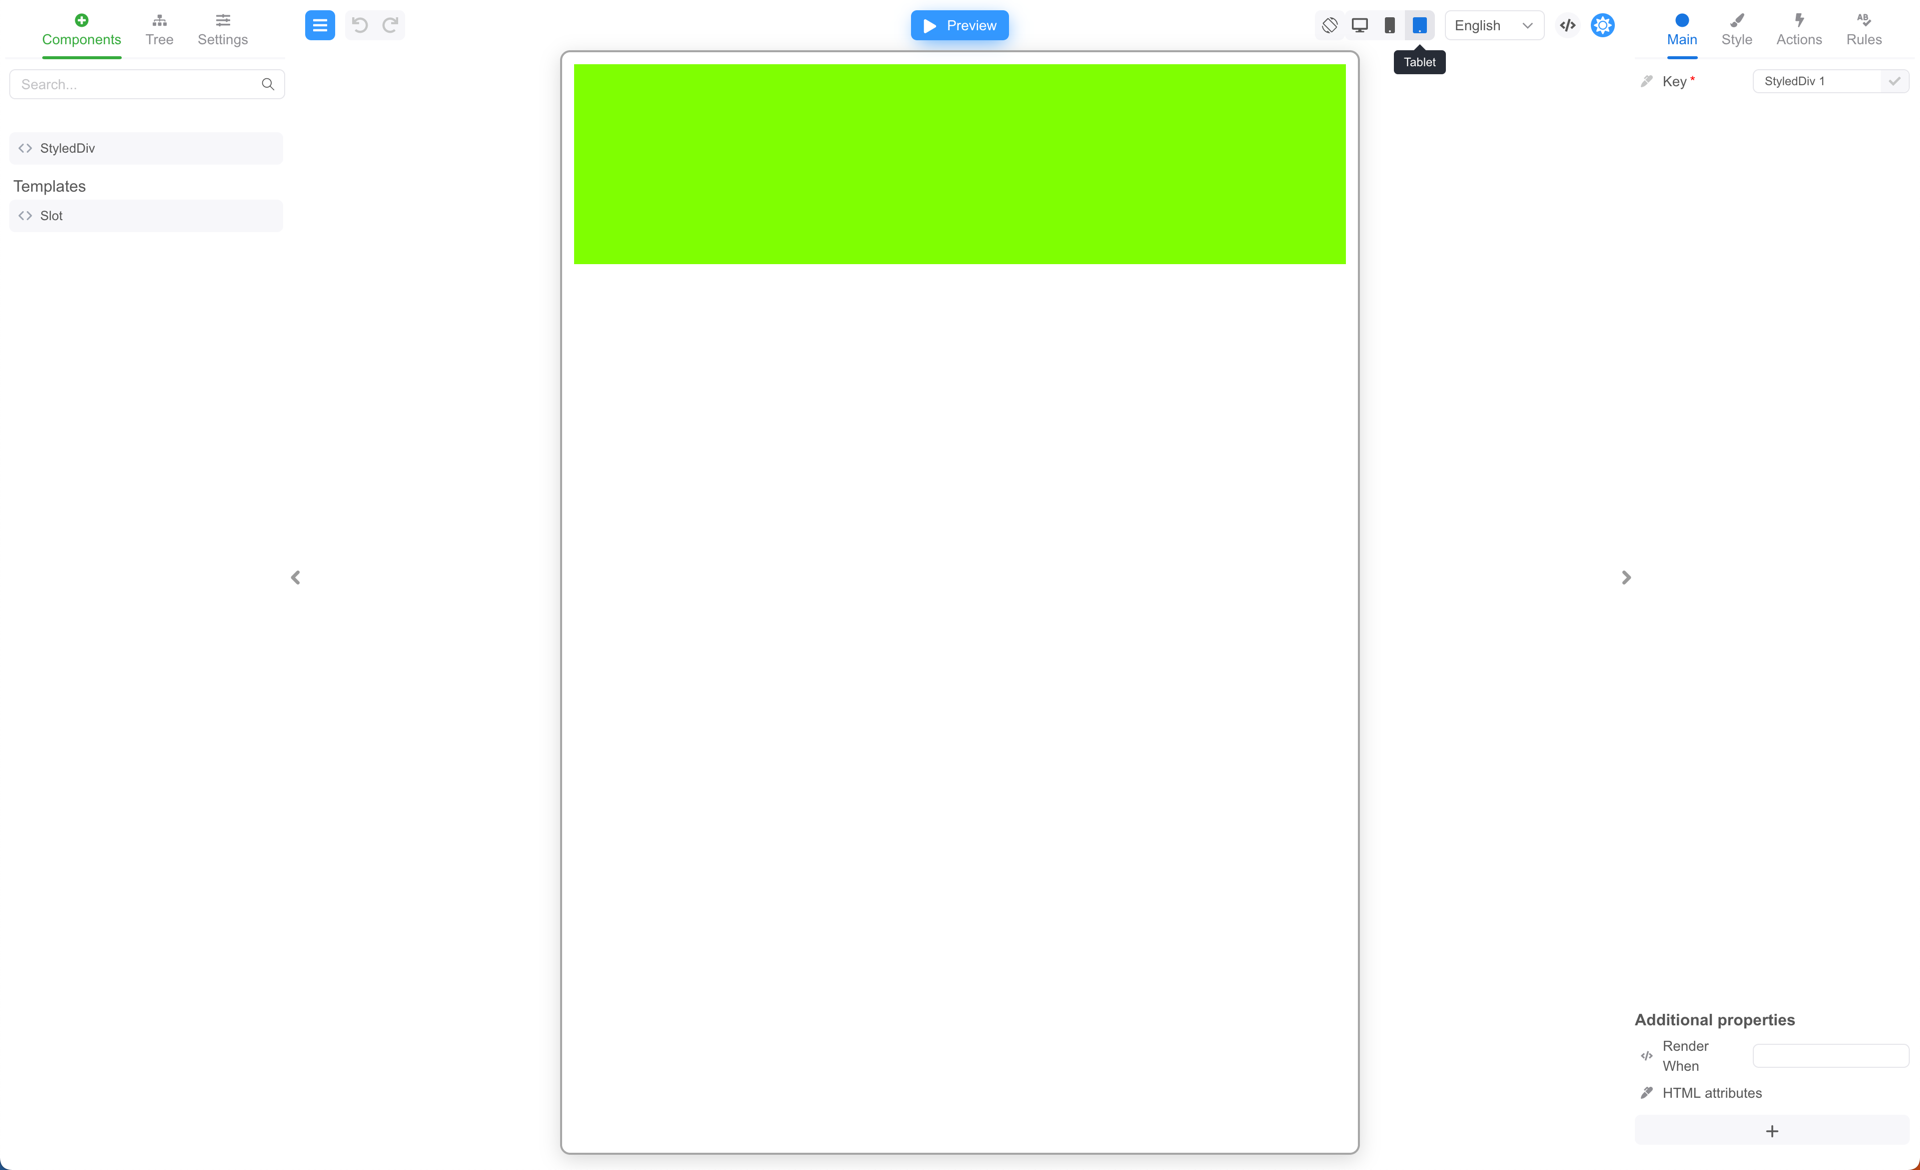
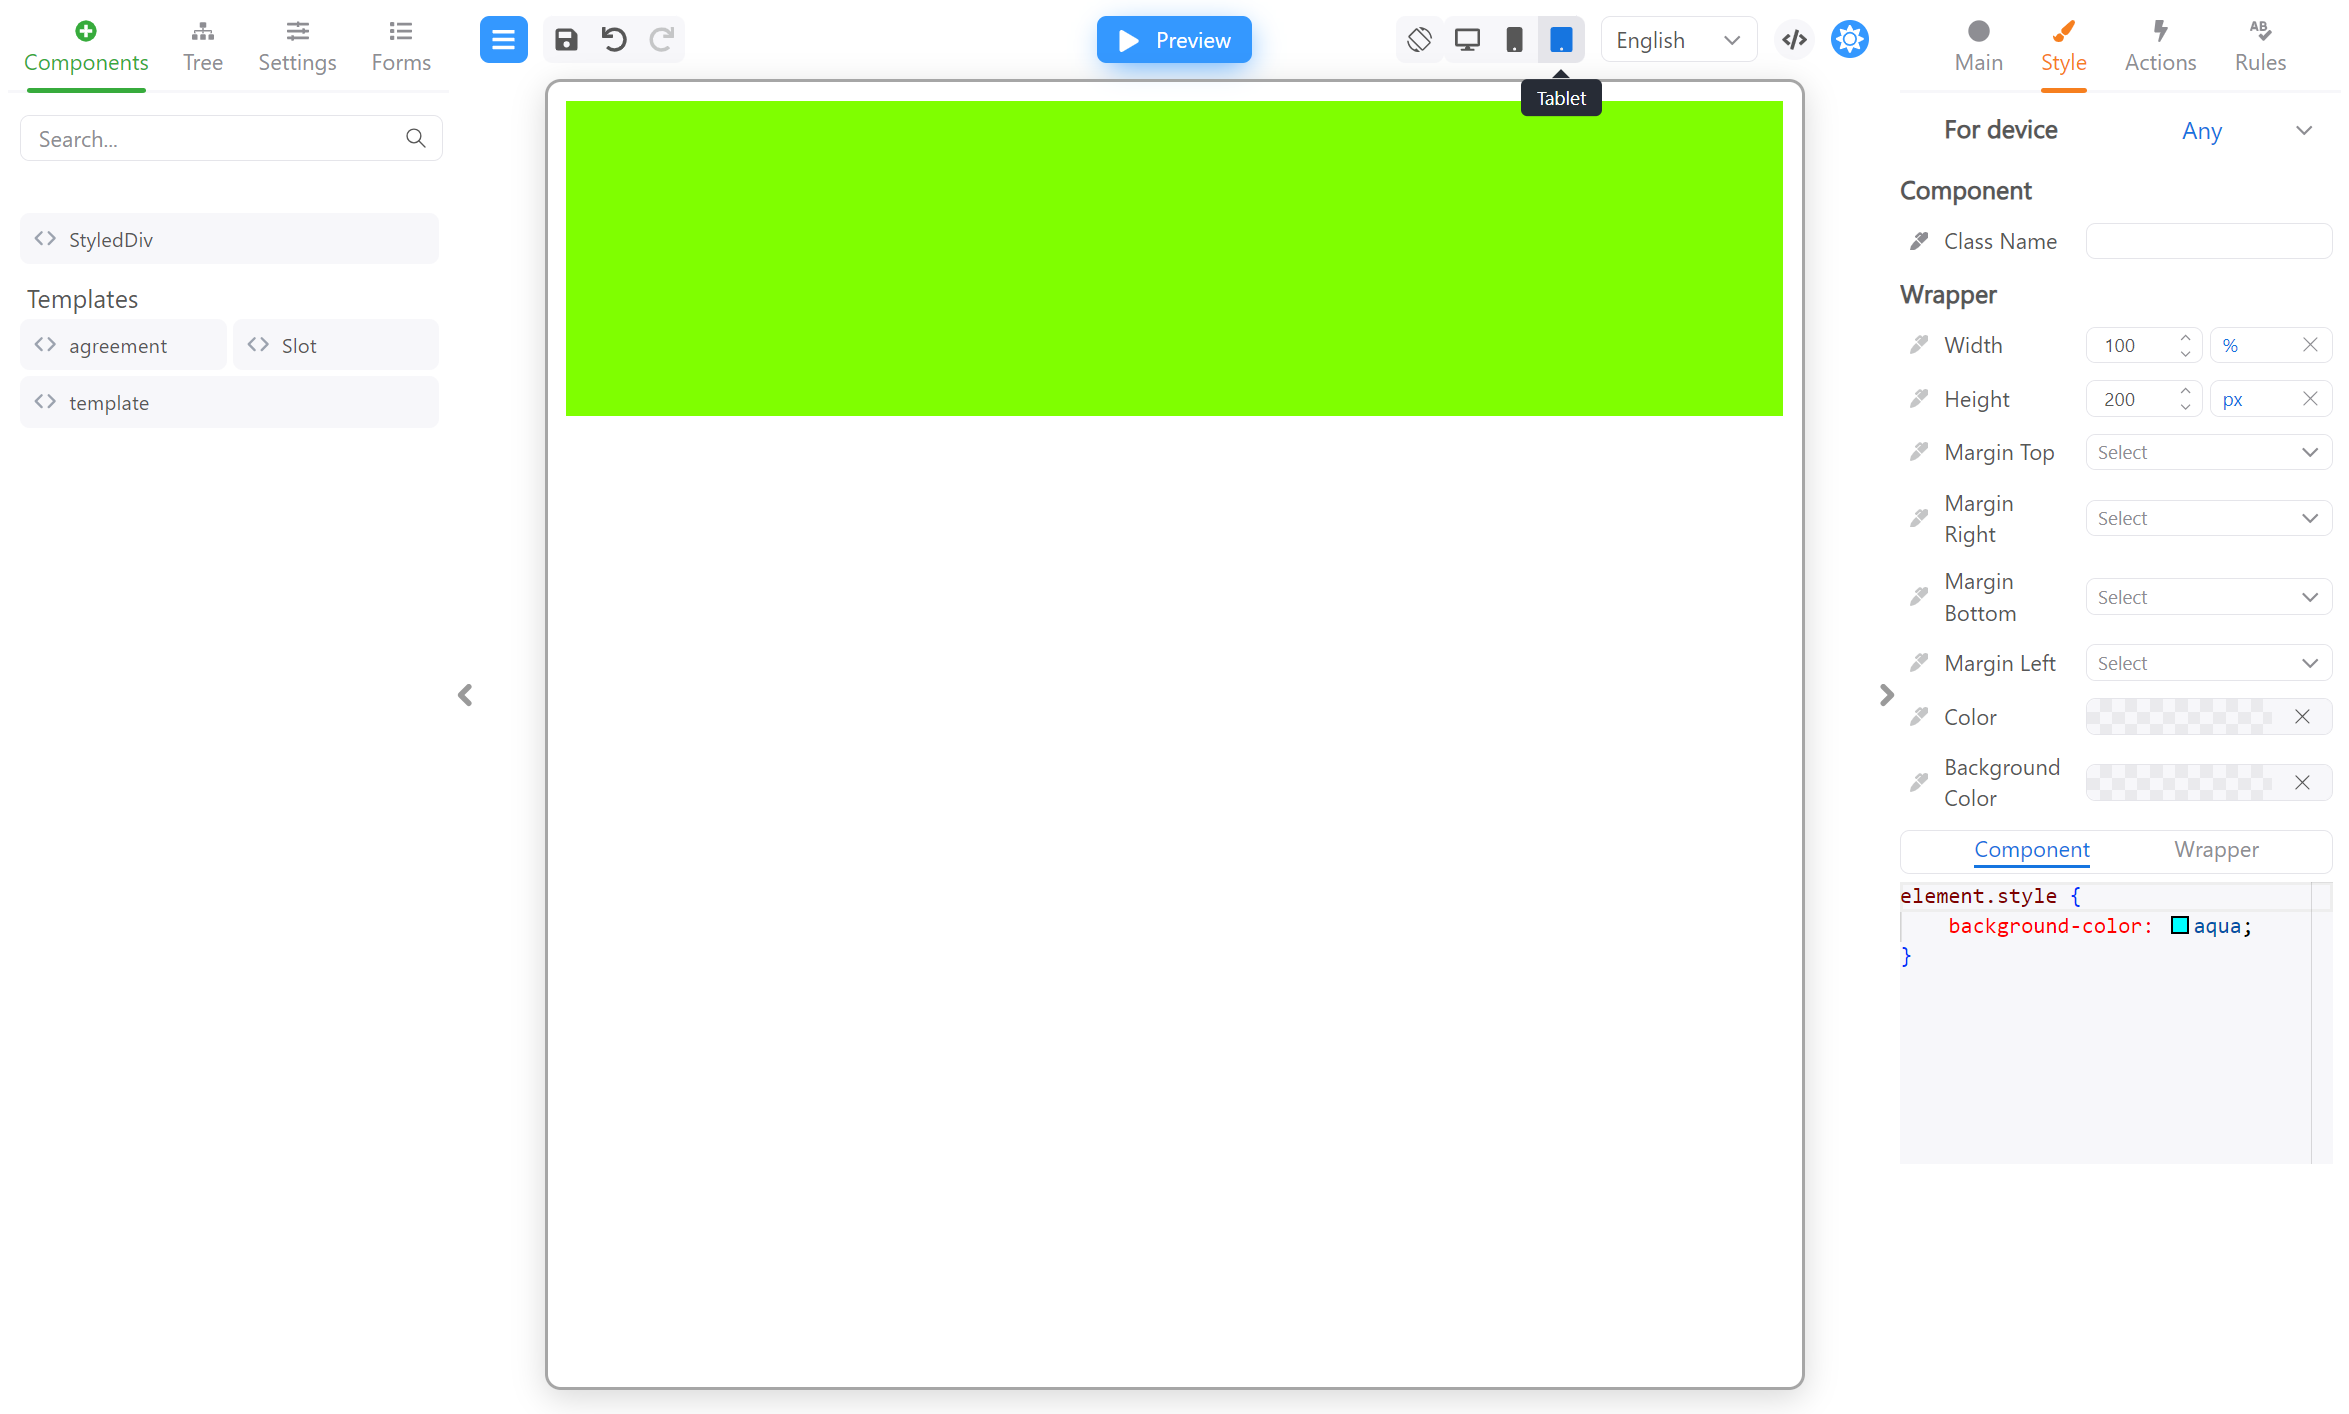
FB-690 Component styling documentation (#466)

diff --git a/documentation/docs/features/component-styling.md b/documentation/docs/features/component-styling.md
@@ -6,14 +6,49 @@ slug: /component-styling
 
 # Component styling
 
-:::info
-
-Documentation in the process of writing.
-
-:::
+## Overview
 
 Styling of components in Form Builder is quite simple - you can customize styles for a component on the "Style" tab. The styles will be
 compiled into a CSS class. The name of this CSS class will be passed to the component's rendering function as the `className` property.
+
+![Component styling 10](/assets/component-styling/component-styling-10.png)
+
+### Structure
+
+Each component (except Containers) in the form is placed in an outer wrapper, a tooltip and a wrapper for displaying errors during
+rendering. This is what the nesting structure of a regular component looks like:
+
+```tsx
+<Wrapper className="wrapperCss">
+  <Tooltip>
+    <ErrorWrapper>
+      <Component className="componentCss"/>
+    </ErrorWrapper>
+  </Tooltip>
+</Wrapper>
+```
+
+Styles specific to different HTML elements (for
+example `font-size` for the `Label` component or `fit` for the `Image` component) are applied directly to it. These properties can be edited
+on the `Style` tab, under the `Component` heading.
+
+The sizing, padding, positioning and other
+styles inherent in all components are applied to the outer wrapper of the component. They are located under the `Wrapper` heading.
+
+You can also enter the CSS code for the component or wrapper into the editor at the bottom. There you can use all CSS properties such
+selectors, pseudo-classes, etc.
+
+![Component styling 09](/assets/component-styling/component-styling-09.png)
+
+![Component styling 11](/assets/component-styling/component-styling-11.png)
+
+The `Container` components has no outer wrappers, and all styles are attached to it:
+
+```tsx
+<Container className="css">
+  {children}
+</Container>
+```
 
 ## Styling a header component
 
@@ -22,15 +57,15 @@ the `Subheader` component and click on the "Style" tab as in the screenshot belo
 
 ![Component styling 06](/assets/component-styling/component-styling-06.png)
 
-Now select the "Center" value in the "Alignment" property. In the style code editor, copy the value of the **selected** lines:
+Now select the "Center" value in the "Alignment" property. In the Component style code editor, copy the value of the **selected** lines:
 
 ```scss
 element.style {
   // highlight-start
-  font-size: 64px;
+  font-size: 48px;
   padding: 20px;
   color: rgba(0, 3, 4, 0.596);
-  background: linear-gradient(0.25turn, #3f87a6, #ebf8e1, #f69d3c)
+  background: linear-gradient(0.25turn, #3f87a6, #ebf8e1, #f69d3c);
   // highlight-end
 }
 ```
@@ -59,6 +94,8 @@ export const StyledDiv = (props: StyledDivProps) => {
   return <div
     // highlight-next-line  
     className={props.className}
+    // highlight-next-line
+    style={{flex: 1}}
   >{props.children}</div>
 }
 
@@ -102,9 +139,9 @@ editor, where you can enter arbitrary CSS properties.
 
 Let's take a look at how this works. To demonstrate, we'll set the following style parameters:
 
-1. For **Any** devices, let's set the height to 200 pixels and "background-color" to "aqua".
-2. For **Mobile** type devices, we'll set the "background-color" to "bisque".
-3. For **Tabled** devices, set "background-color" to "chartreuse".
+1. For **Any** devices, let's set the height to 200 pixels and "background-color" of Wrapper to "aqua".
+2. For **Mobile** type devices, we'll set the "background-color" of Wrapper to "bisque".
+3. For **Tabled** devices, set "background-color" of Wrapper to "chartreuse".
 
 You can simply copy and paste the form JSON into the JSON form editor. Click the **&lt;/&gt;** button, then paste the code below and close
 the "Edit JSON" window.
@@ -125,8 +162,12 @@ the "Edit JSON" window.
           "any": {
             "object": {
               "height": "200px"
-            },
-            "string": "  background-color: aqua;"
+            }
+          }
+        },
+        "css": {
+          "any": {
+            "string": "    background-color: aqua;"
           },
           "mobile": {
             "string": "  background-color: bisque;"
@@ -182,11 +223,11 @@ export const styledDiv = define(StyledDiv, 'StyledDiv')
   .name('StyledDiv')
   // highlight-start
   .css({
-    gap: size.default('10px'),
-    alignItems: oneOf('start', 'center', 'baseline', 'end', 'stretch'),
-    justifyContent: oneOf('flex-start', 'flex-end', 'center', 'space-between', 'space-around',
-      'space-evenly', 'start', 'end', 'left', 'right'),
-    flexWrap: oneOf('wrap', 'nowrap', 'wrap-reverse'),
+    borderStyle: oneOf('solid', 'dashed', 'dotted', 'double', 'center', 'groove').default('solid'),
+    borderWidth: size.default('1px'),
+    borderRadius: number.default(0),
+    borderColor: color.default('black'),
+    textAlign: oneOf('start', 'end', 'left', 'right', 'center', 'justify')
   })
 // highlight-end
 ```

diff --git a/documentation/docs/features/custom-components.md b/documentation/docs/features/custom-components.md
@@ -449,6 +449,27 @@ changes:
 
 ![Custom components 06](/assets/custom-components/custom-components-06.png)
 
+### Kind of a component
+
+Also, in some cases, you may need to set the [`kind`](/api-reference/classes/react_form_builder_core.Definer#kind) of the component. This is
+a property that shows [how to render](/component-styling###structure) the component. For regular components, it is set to `'component'` by
+default. You can the `kind` value to `'container'` in case you need the component to be only a container, for its children, without having
+its own
+wrappers.
+
+```typescript
+const myContainer = define(MyContainer)
+  .type('MyContainer')
+  .name('Container')
+  // highlight-next-line
+  .kind('container')
+  .props({children: node})
+  .css({
+    flexDirection: flexDirection.default('column'),
+    gap: gap.default('10px')
+  })
+```
+
 ## Conclusion
 
 This article showed how to easily connect a custom component to use it in the designer. And also how a custom component is connected and
